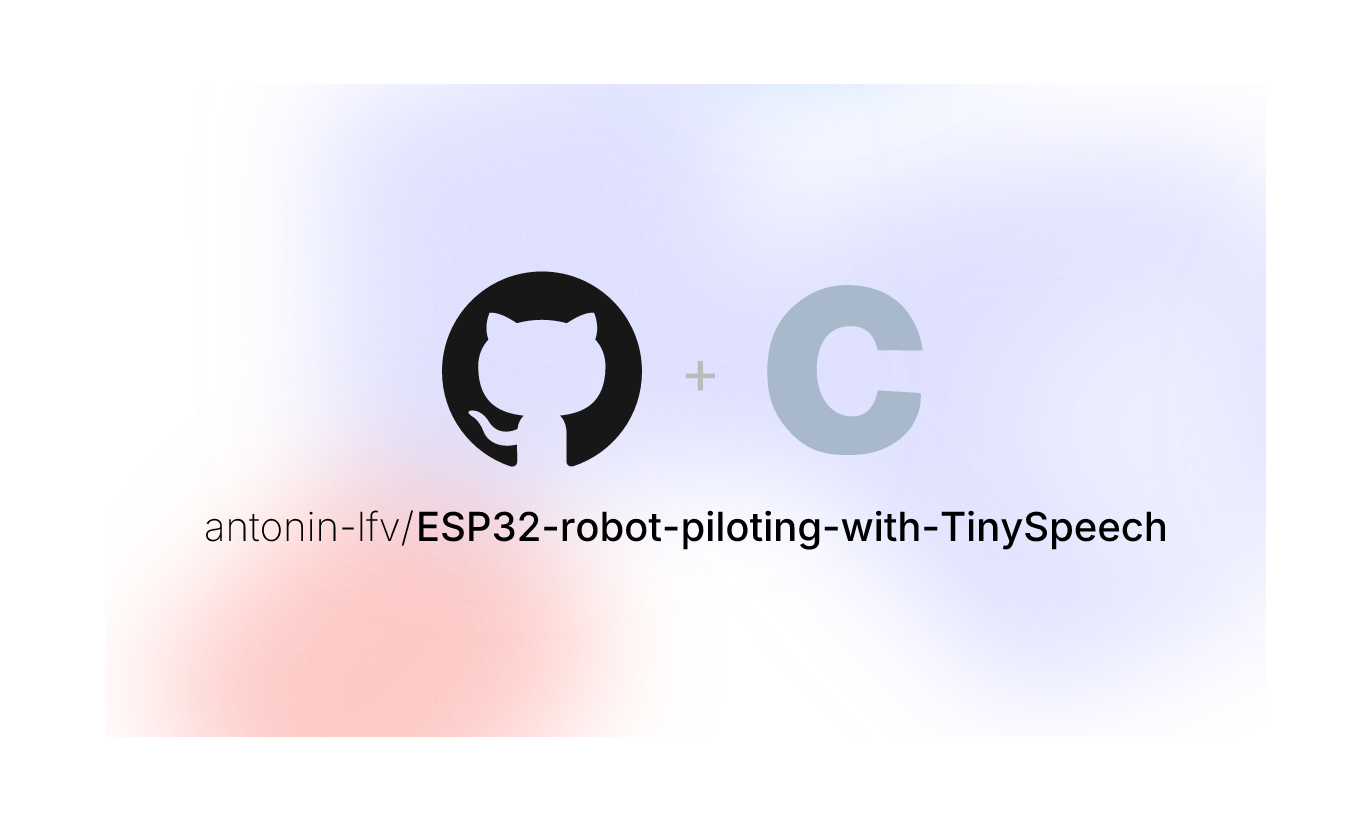
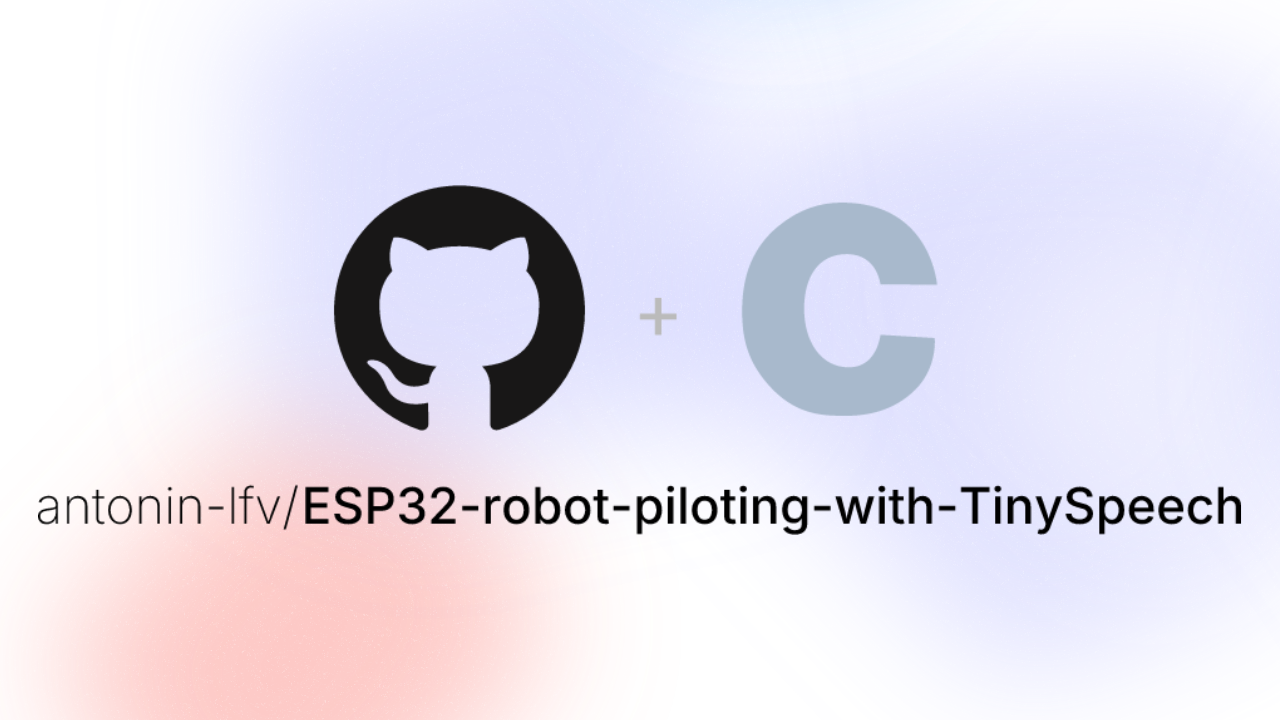
image format

diff --git a/README.md b/README.md
@@ -98,7 +98,7 @@ Passionné de technologies, je navigue entre **Python** 🐍, **Rust** 🦀 et *
 
 <p align="left">
   <a href="https://github.com/antonin-lfv/ESP32-robot-piloting-with-TinySpeech">
-    <img src="https://github.com/antonin-lfv/antonin-lfv/raw/main/images/tinyspeech.png" alt="ESP32-robot-piloting-with-TinySpeech" width="280" align="left"/>
+    <img src="https://github.com/antonin-lfv/antonin-lfv/raw/main/images/tinyspeech.png" alt="ESP32-robot-piloting-with-TinySpeech" width="300px" align="left"/>
   </a>
   <a href="https://github.com/antonin-lfv/ESP32-robot-piloting-with-TinySpeech">
     <strong>🗣🤖 ESP32 ElioBot Voice Control</strong><br>
